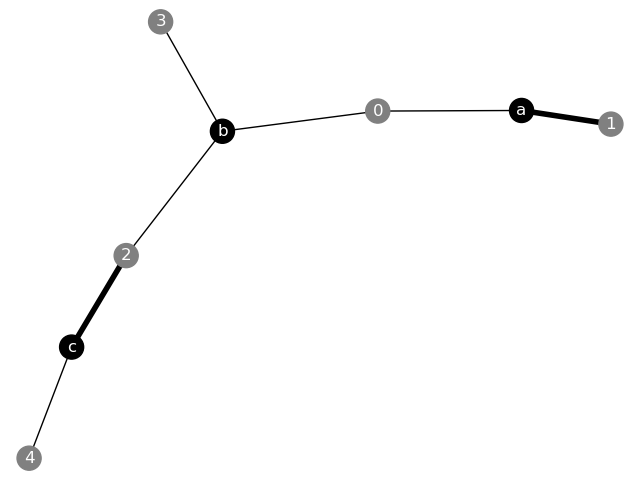
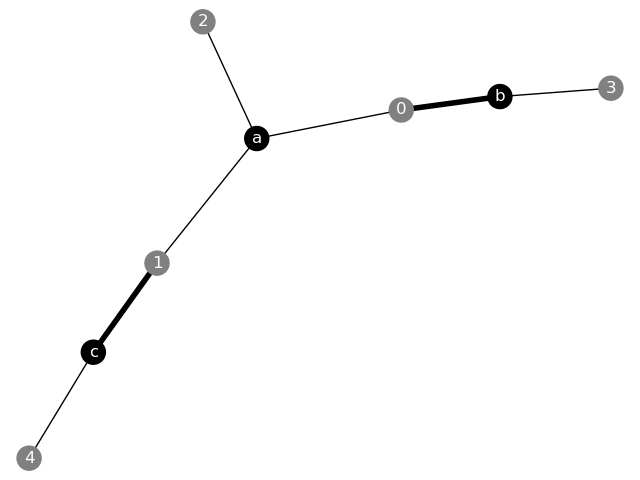
Implementation Complete

diff --git a/strat2.py b/strat2.py
@@ -253,22 +253,22 @@ def order_by_string(list_graph):
 		center(graph)
 		graph.string = renaming(graph, graph.root, -1)
 		if len(C_l) == 0:
-			graph.labeling(1)
-			name = str(graph.tag) + ".png"
-			if not(path.exists(name)):
-				graph.draw()
-			C_l.append([graph])
+			C_l.append(graph)
 		for sub_list in C_l:
-			compare = graph.string == sub_list[0].string
+			compare = graph.string == sub_list.string
 			if compare:
 				flag = 1
 				break
 		if flag == 0:
-			graph.labeling(len(C_l)+1)
-			name = str(graph.tag) + ".png"
+			C_l.append(graph)
+		C_l.sort(key = four_for_graph)
+		k = 1
+		for g in C_l: 
+			g.labeling(k)
+			name = str(g.tag) + ".png"
 			if not(path.exists(name)):
-				graph.draw()
-			C_l.append([graph])
+				g.draw()
+			k += 1
 	return C_l
 
 def order_by_isomorphic(list_graph):
@@ -356,7 +356,7 @@ def build_until_m(All_graphs, m):
 					new_list += G3
 				else: 
 					break
-			new_list = Categories(new_list)
-			flat_list = [item for l in new_list for item in l]
+			flat_list = Categories(new_list)
+			#flat_list = [item for l in new_list for item in l]
 			print("For ", n, " white nodes, we have ", len(flat_list), " different graphs.")
 			All_graphs.append(flat_list)

diff --git a/AHU_Algorithm.py b/AHU_Algorithm.py
@@ -75,12 +75,3 @@ def renaming(graph, source, father):
 		for p in path_list: string+=p
 		return string + b
 
-
-G = b111()
-G = G.O1(0)
-G= G.O1(0)
-#print(G[1]['a'][0]['weight'])
-X = center(G)
-print(X)
-R = renaming(G, X, -1)
-print(R)
